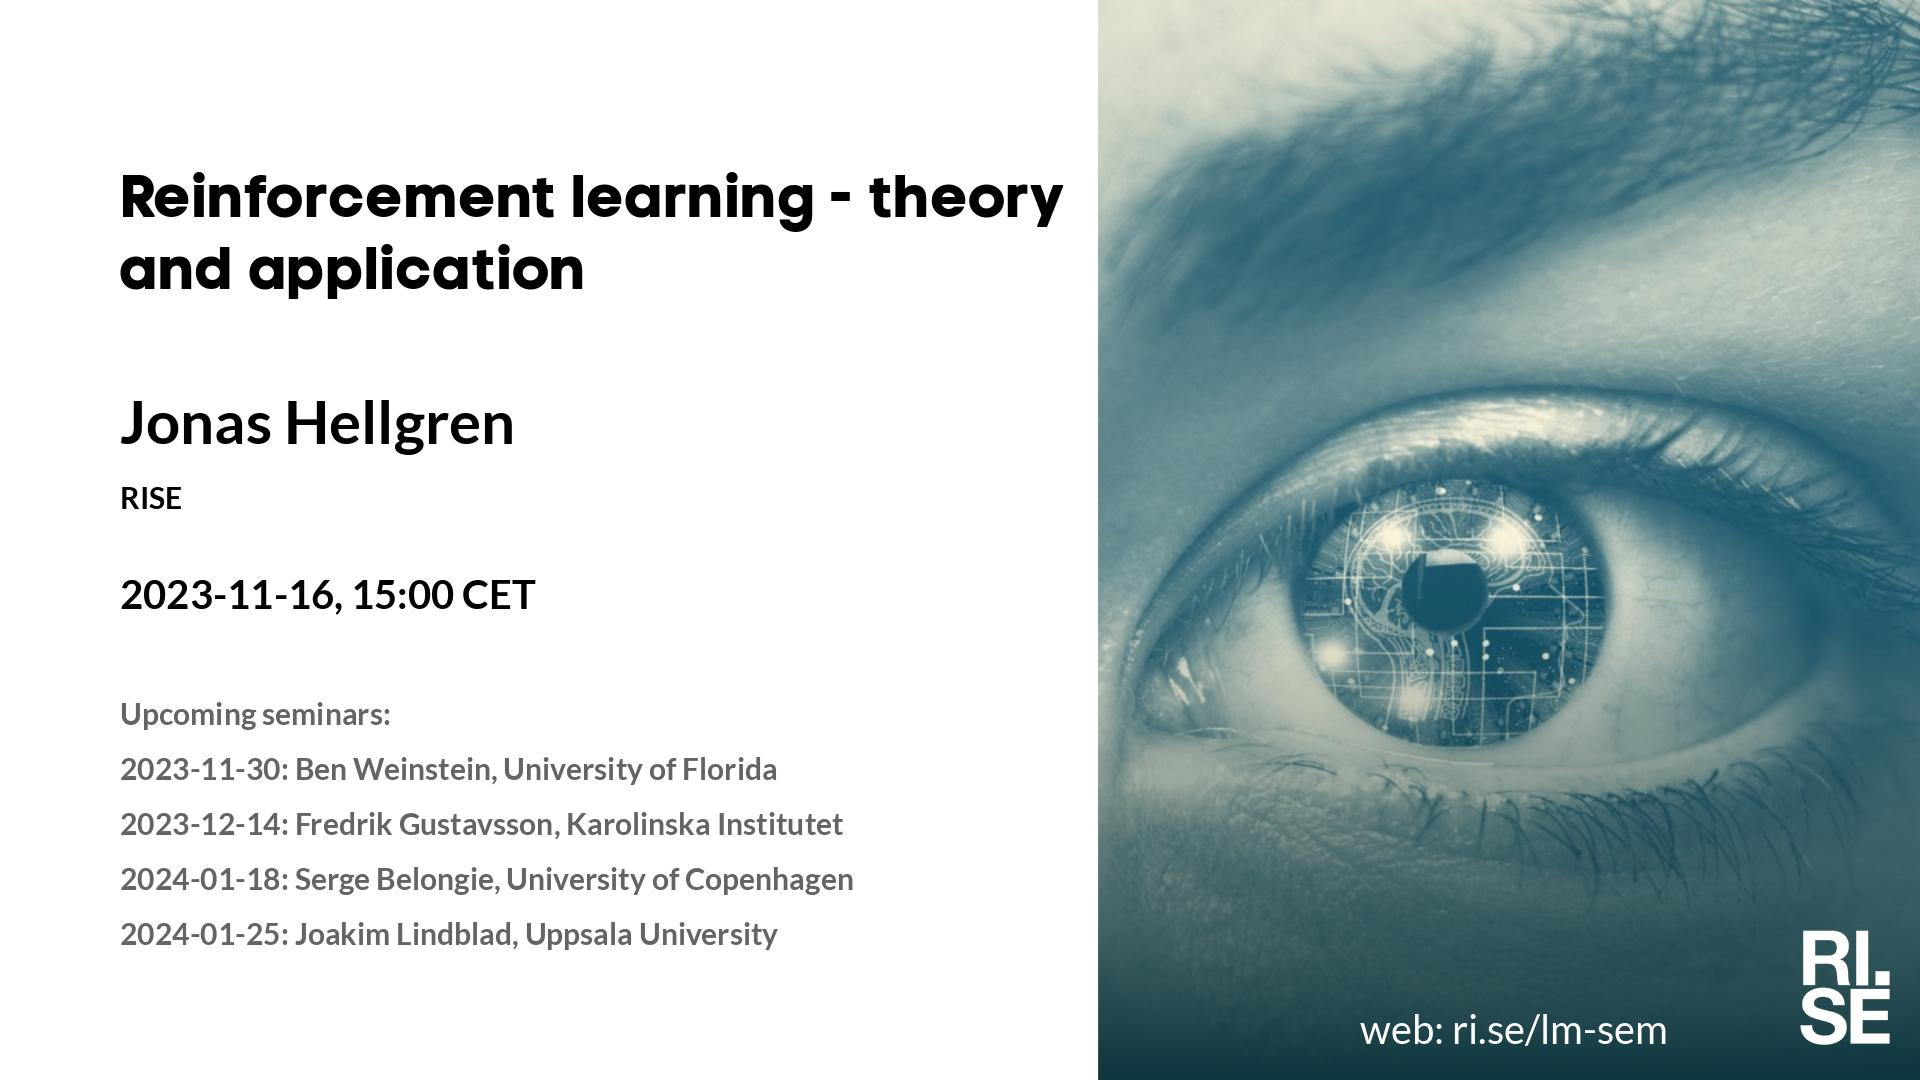
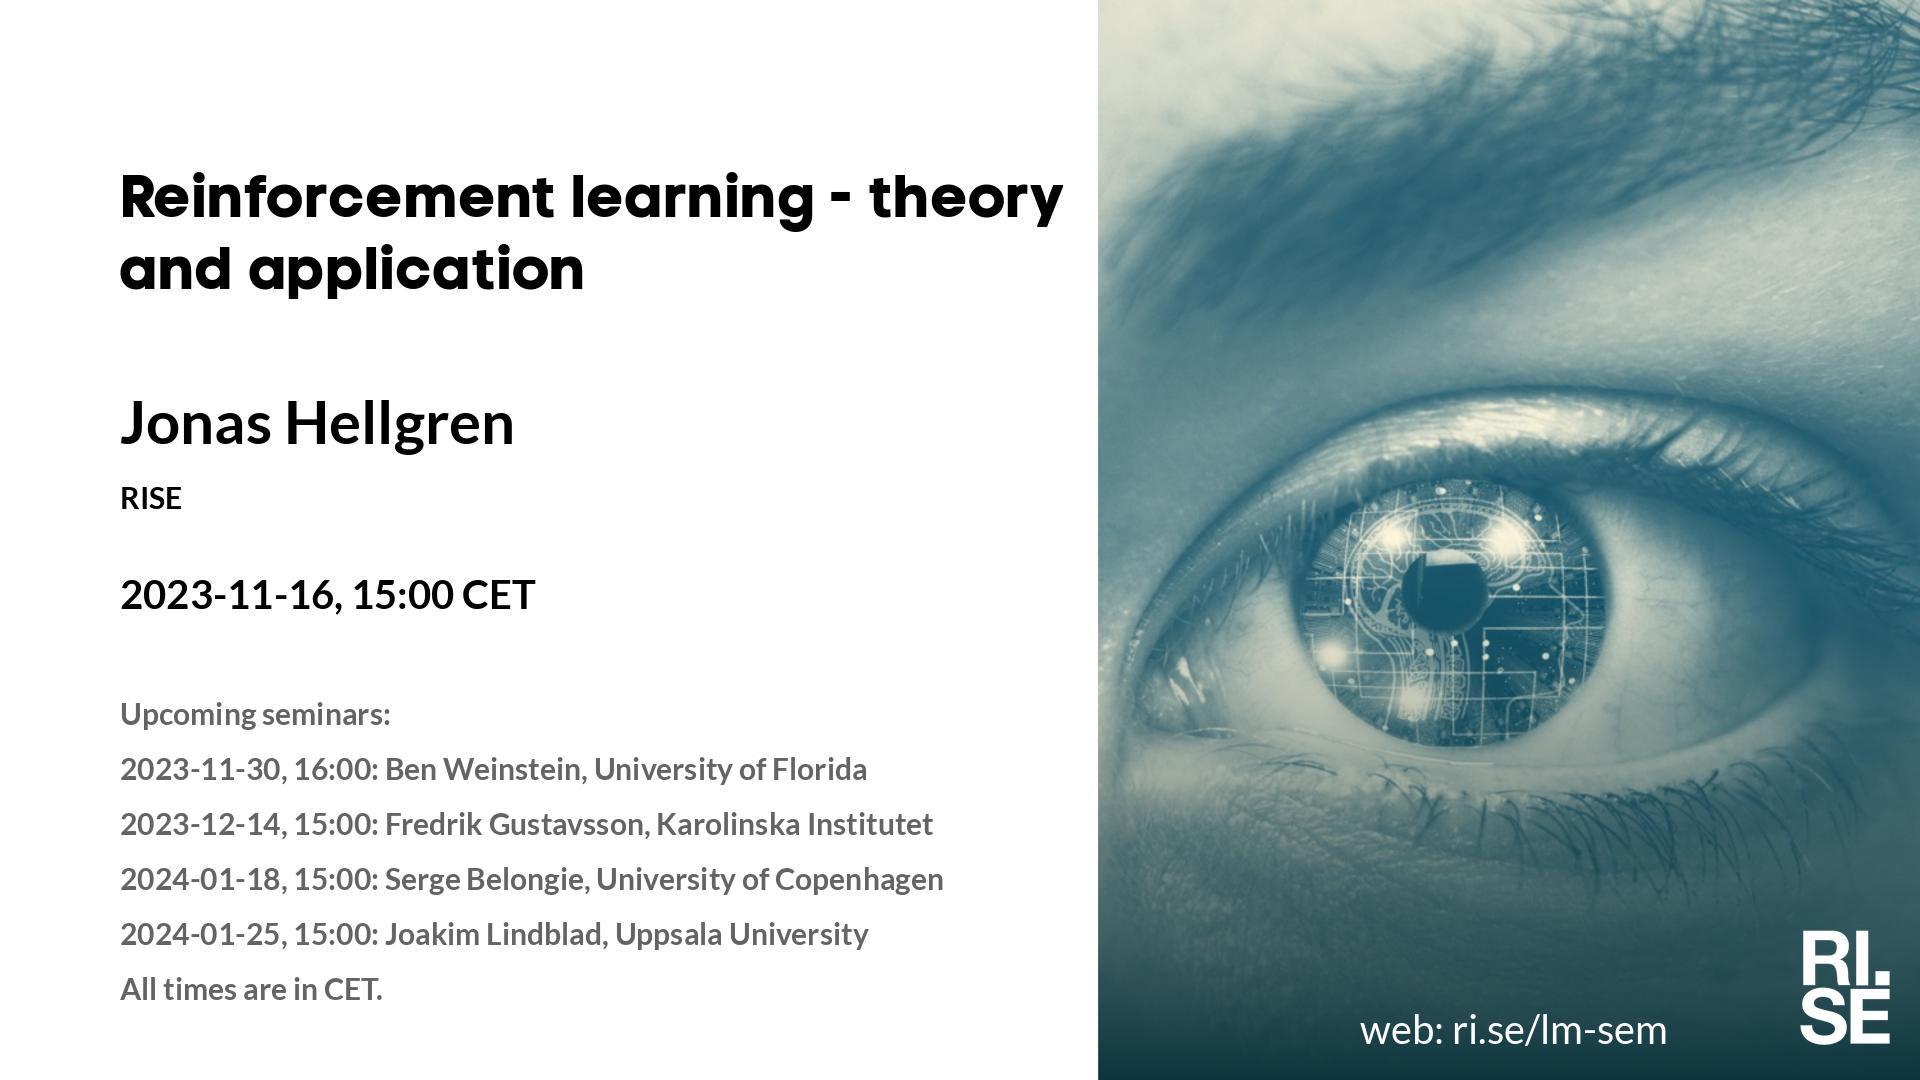
Updated plan on web site.

Changed region(s): [[0.1562, 0.7028, 0.5, 0.825], [0.0625, 0.8556, 0.4688, 0.9472]]

diff --git a/lm/2023-11-09.md b/lm/2023-11-09.md
@@ -24,10 +24,11 @@ Nataša obtained her PhD degree in computerized image processing at the Centre f
 
 **Upcoming seminars:**
 
-* 2023-11-16: Jonas Hellgren, RISE
-* 2023-11-30: Ben Weinstein, University of Florida
-* 2023-12-14: Fredrik Gustavsson, Karolinska Institutet
-* 2024-01-18: Serge Belongie, University of Copenhagen
+* 2023-11-16, 15:00: Jonas Hellgren, RISE
+* 2023-11-30, 16:00: Ben Weinstein, University of Florida
+* 2023-12-14, 15:00: Fredrik Gustavsson, Karolinska Institutet
+* 2024-01-18, 15:00: Serge Belongie, University of Copenhagen
+* All times are in CET.
 
 More information and coming seminars: [https://ri.se/lm-sem](https://ri.se/lm-sem)
 

diff --git a/lm/2023-11-16.md b/lm/2023-11-16.md
@@ -20,10 +20,11 @@ Welcome to this week's Learning Machines seminar.
 
 **Upcoming seminars:**
 
-* 2023-11-30: Ben Weinstein, University of Florida
-* 2023-12-14: Fredrik Gustavsson, Karolinska Institutet
-* 2024-01-18: Serge Belongie, University of Copenhagen
-* 2024-01-25: Joakim Lindblad, Uppsala University
+* 2023-11-30, 16:00: Ben Weinstein, University of Florida
+* 2023-12-14, 15:00: Fredrik Gustavsson, Karolinska Institutet
+* 2024-01-18, 15:00: Serge Belongie, University of Copenhagen
+* 2024-01-25, 15:00: Joakim Lindblad, Uppsala University
+* All times are in CET.
 
 More information and coming seminars: [https://ri.se/lm-sem](https://ri.se/lm-sem)
 
